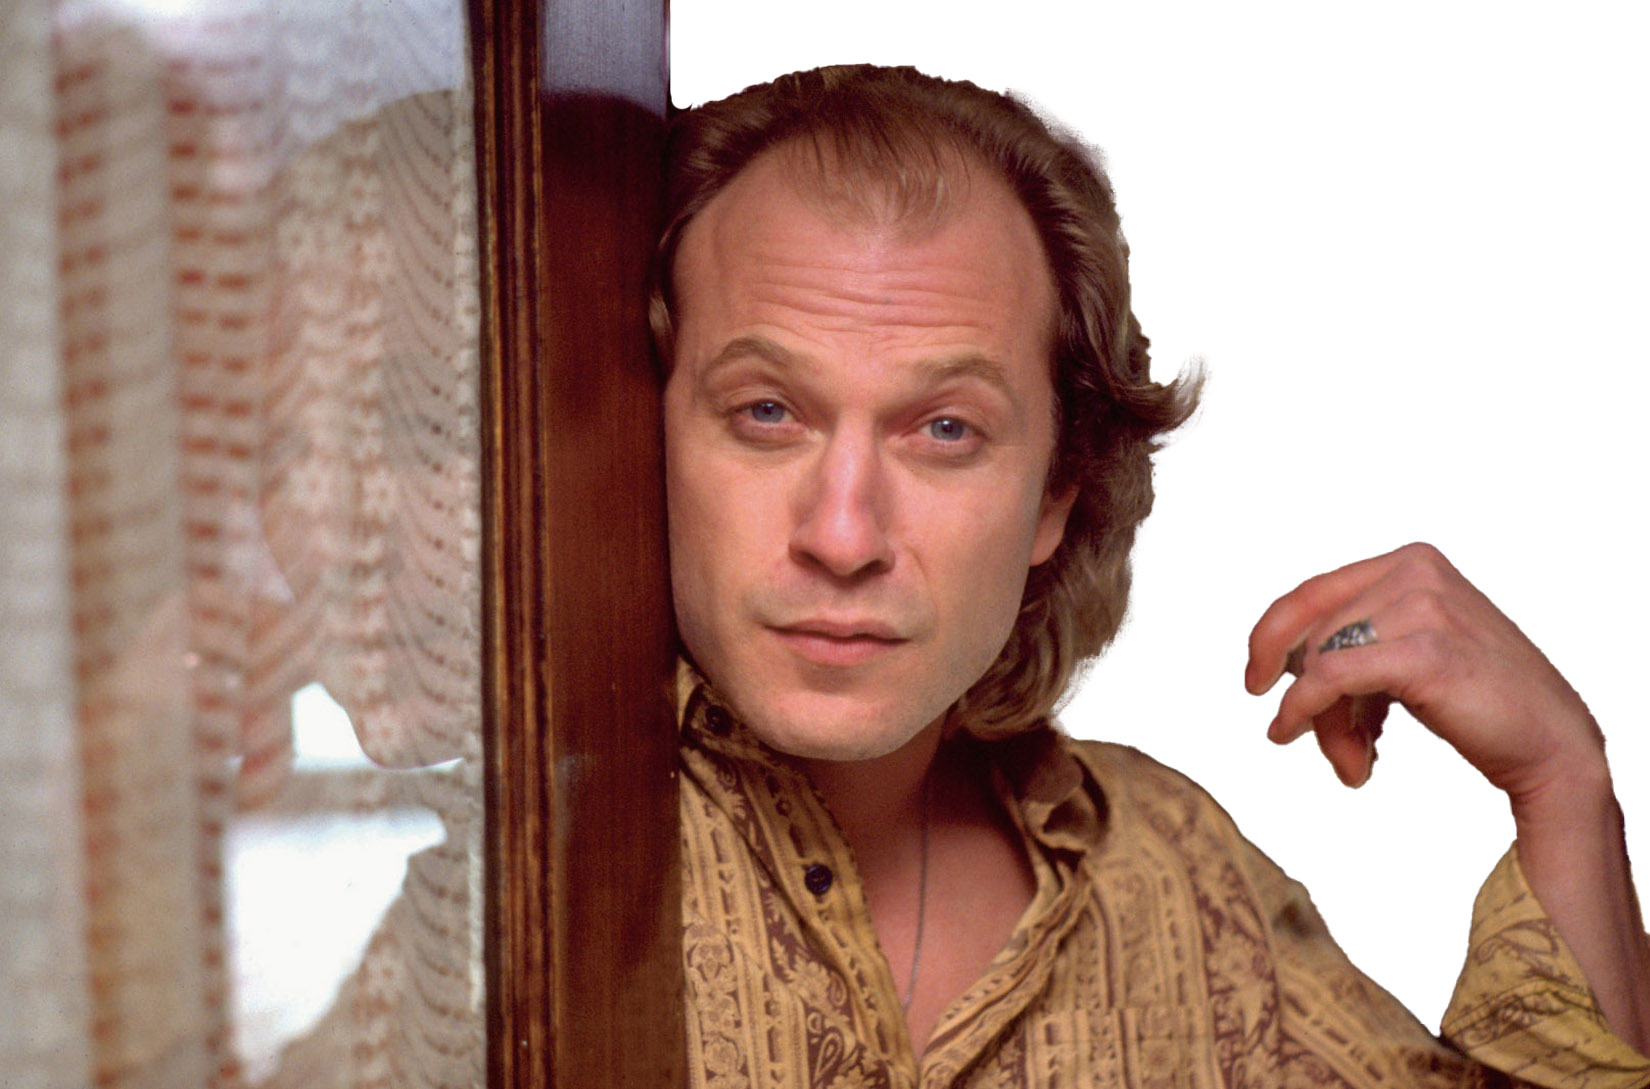
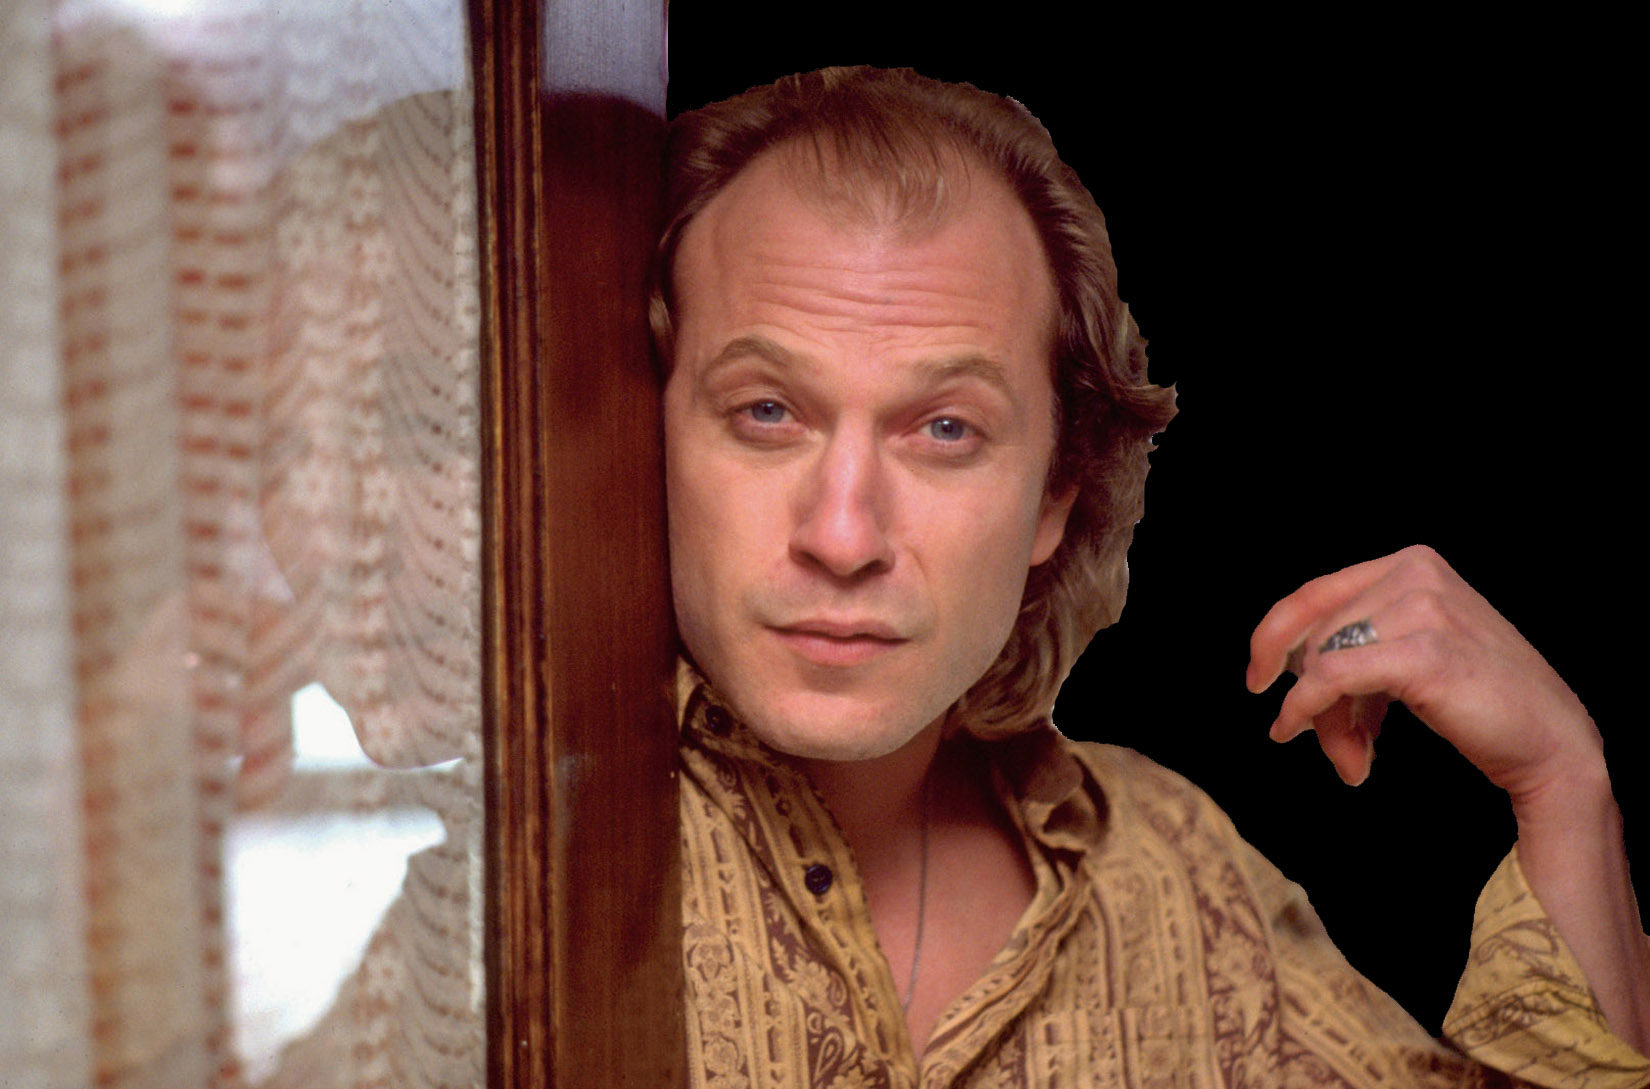
Update

Changed region(s): [[0.4018, 0.0, 1.0, 0.9679]]

diff --git a/homework-11/scripts/sketch.js b/homework-11/scripts/sketch.js
@@ -27,7 +27,7 @@ function setup() {
 }
 
 function draw() {
-  background(255);
+  background(0);
   image(buffalo, -1100, -550, 1075, 850);
   texture(skin);
 
